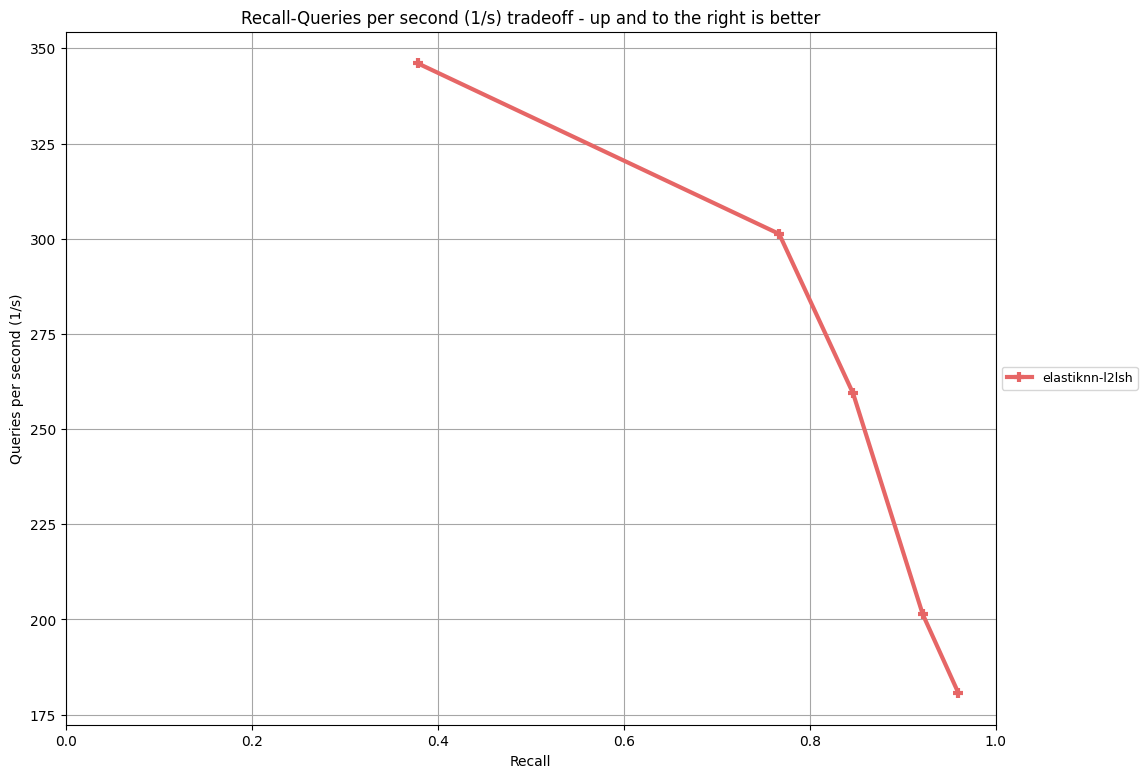
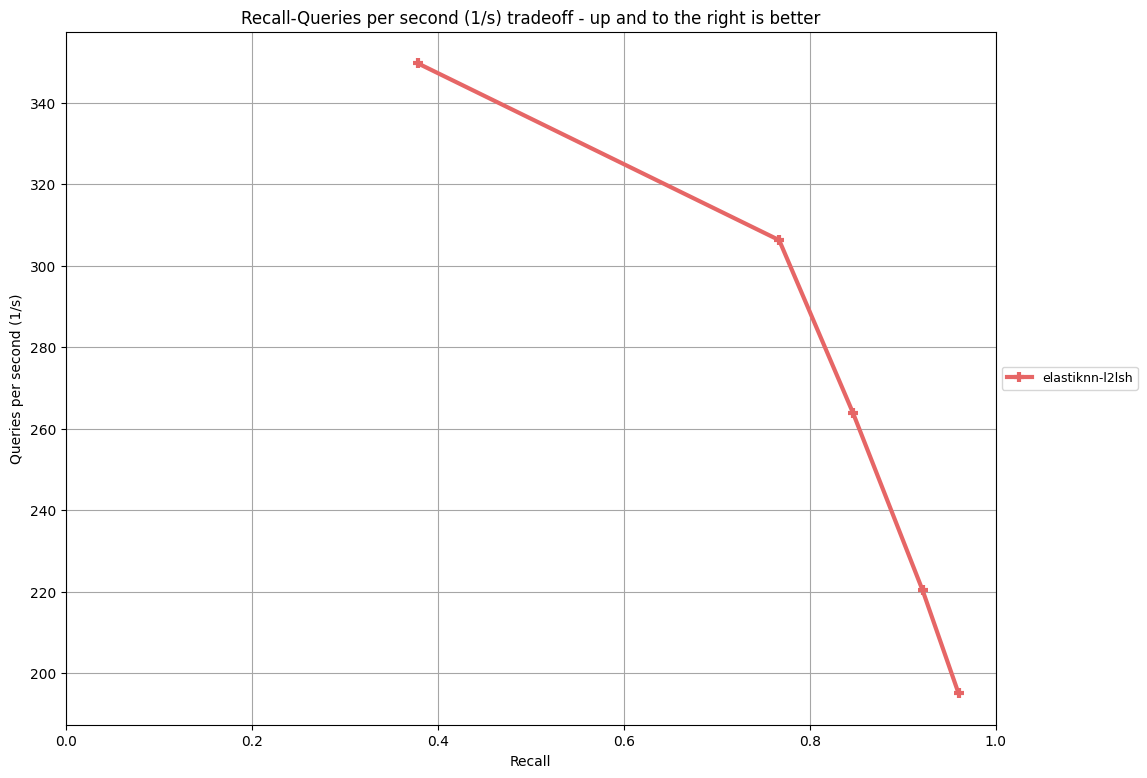
Benchmark

diff --git a/docs/pages/performance/fashion-mnist/results.md b/docs/pages/performance/fashion-mnist/results.md
@@ -1,10 +1,10 @@
 |Model|Parameters|Recall|Queries per Second|
 |---|---|---|---|
-|eknn-l2lsh|L=100 k=4 w=1024 candidates=500 probes=0|0.378|346.083|
-|eknn-l2lsh|L=100 k=4 w=1024 candidates=1000 probes=0|0.446|289.601|
-|eknn-l2lsh|L=100 k=4 w=1024 candidates=500 probes=3|0.634|276.494|
-|eknn-l2lsh|L=100 k=4 w=1024 candidates=1000 probes=3|0.716|242.322|
-|eknn-l2lsh|L=100 k=4 w=2048 candidates=500 probes=0|0.767|301.259|
-|eknn-l2lsh|L=100 k=4 w=2048 candidates=1000 probes=0|0.847|259.373|
-|eknn-l2lsh|L=100 k=4 w=2048 candidates=500 probes=3|0.922|201.386|
-|eknn-l2lsh|L=100 k=4 w=2048 candidates=1000 probes=3|0.960|180.637|
+|eknn-l2lsh|L=100 k=4 w=1024 candidates=500 probes=0|0.378|349.650|
+|eknn-l2lsh|L=100 k=4 w=1024 candidates=1000 probes=0|0.447|287.767|
+|eknn-l2lsh|L=100 k=4 w=1024 candidates=500 probes=3|0.634|282.009|
+|eknn-l2lsh|L=100 k=4 w=1024 candidates=1000 probes=3|0.716|239.570|
+|eknn-l2lsh|L=100 k=4 w=2048 candidates=500 probes=0|0.767|306.244|
+|eknn-l2lsh|L=100 k=4 w=2048 candidates=1000 probes=0|0.847|263.877|
+|eknn-l2lsh|L=100 k=4 w=2048 candidates=500 probes=3|0.921|220.324|
+|eknn-l2lsh|L=100 k=4 w=2048 candidates=1000 probes=3|0.960|195.076|
